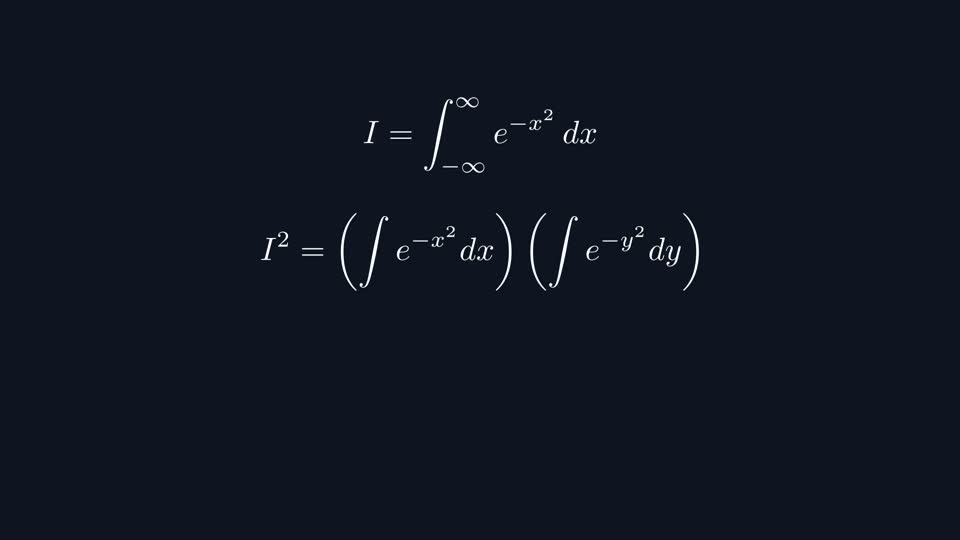
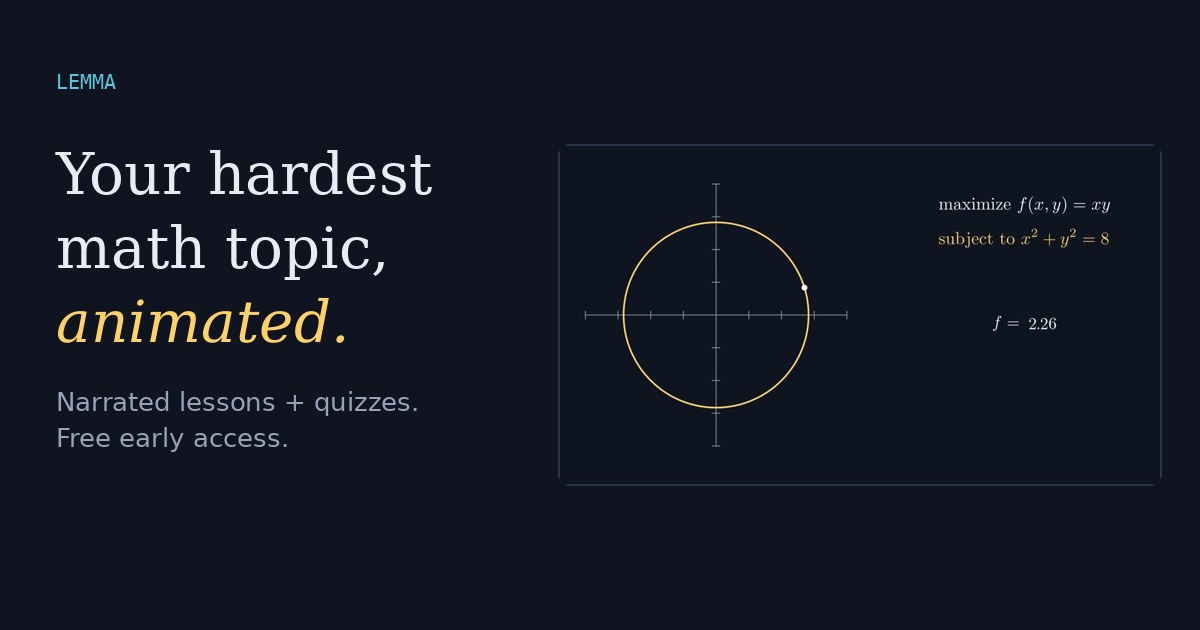
Signup-focused redesign: course picker, referral tiers, A/B headline, offline-safe signup, share image

diff --git a/index.html b/index.html
@@ -2,6 +2,11 @@
 <html lang="en">
 <head>
 <meta charset="utf-8">
+<script>
+(function(){var q=new URLSearchParams(location.search),v=q.get("v"),V=["a","b"];
+try{if(V.indexOf(v)<0)v=localStorage.getItem("lemma-v");if(V.indexOf(v)<0){v=V[Math.random()*V.length|0]}localStorage.setItem("lemma-v",v)}catch(e){if(V.indexOf(v)<0)v="a"}
+window.LEMMA_V=v;document.documentElement.dataset.v=v})();
+</script>
 <meta name="viewport" content="width=device-width,initial-scale=1,viewport-fit=cover">
 <title>Lemma: see the math move</title>
 <meta name="description" content="Narrated, animated math lessons for any topic in your course, with a quiz after every lesson. Watch three free sample lessons and join the early-access list.">
@@ -161,7 +166,26 @@ footer{margin-top:64px;padding-top:20px;border-top:1px solid var(--line);color:v
 .faq details{background:var(--panel);border:1px solid var(--line);border-radius:10px;padding:14px 16px;margin-bottom:8px}
 .faq summary{cursor:pointer;font-weight:500}
 .faq p{color:var(--muted);margin:8px 0 0;font-size:15px}
-@media (max-width:480px){.hero-form{flex-direction:column}.sticky span{display:none}}
+
+.course-pick{display:flex;flex-wrap:wrap;gap:6px;margin:0 0 10px}
+.course-pick button{all:unset;cursor:pointer;font:13px var(--body);border:1px solid var(--line);border-radius:99px;padding:6px 12px;color:var(--ink);background:var(--panel)}
+.course-pick button[aria-pressed="true"]{border-color:var(--yellow);color:var(--bg);background:var(--yellow)}
+.pick-label{font:500 13px var(--body);color:var(--muted);margin:0 0 8px}
+.tiers{list-style:none;padding:0;margin:12px 0 14px;display:grid;gap:6px;font-size:14px}
+.tiers li{display:flex;gap:10px;align-items:center;color:var(--muted)}
+.tiers li b{font:500 12px var(--mono);min-width:64px;color:var(--ink)}
+.tiers li.got{color:var(--green)} .tiers li.got b{color:var(--green)}
+.bar{height:6px;background:var(--line);border-radius:99px;overflow:hidden;margin-top:10px}
+.bar i{display:block;height:100%;background:var(--yellow)}
+.refnote{background:var(--raised);border:1px solid var(--green);color:var(--green);border-radius:8px;padding:8px 12px;font-size:14px;margin:0 0 12px}
+.refnote[hidden]{display:none}
+.sticky .hero-form{margin:0;flex:1;max-width:520px}
+.sticky .hero-form input{padding:10px 12px}
+.sticky .err-msg,.sticky .pick{display:none}
+.sticky .done{display:none}
+[data-v="a"] .vb,[data-v="b"] .va{display:none}
+@media (max-width:860px){.hero .vwrap{order:-1}.hero{padding-top:8px;gap:20px}}
+@media (max-width:480px){.hero-form{flex-direction:column}.sticky .hero-form{flex-direction:row}.sticky span{display:none}.lede{font-size:16px}}
 </style>
 </head>
 <body>
@@ -174,20 +198,17 @@ footer{margin-top:64px;padding-top:20px;border-top:1px solid var(--line);color:v
   <section class="hero" id="top">
     <div>
       <div class="eyebrow">Animated math lessons · free early access</div>
-      <h1>See the math <em>move</em>, then prove you get it.</h1>
-      <p class="lede">Type any topic from your course and get a narrated, animated lesson that builds the intuition step by step, then quizzes you on it. Upload old exams and Lemma lines up what you missed.</p>
+      <h1 class="va">Your hardest math topic, <em>animated</em> in minutes.</h1>
+      <h1 class="vb" id="h1b">Finally <em>see</em> why the formula works.</h1>
+      <p class="lede">Pick a topic and watch it built step by step with narration and animation, then check yourself with a 3-question quiz. Watch a free sample, then save a spot for your course.</p>
+      <div class="refnote" id="refnote" hidden>A friend saved you a spot. Join and you both move up the list.</div>
       <div class="proof" id="proof" hidden></div>
       <div class="signup-slot" data-slot="hero"></div>
       <p class="micro"><b>Free to join.</b> No card. One email when your course is ready.</p>
-      <div class="chips">
-        <span class="chip"><b>3</b> free sample lessons below</span>
-        <span class="chip"><b>8–15 min</b> lessons</span>
-        <span class="chip"><b>quiz</b> after every lesson</span>
-      </div>
     </div>
     <div class="vwrap">
-      <video id="heroVid" src="l3.mp4" poster="l3.jpg" controls preload="metadata" playsinline></video>
-      <div class="endcard" id="heroEnd" hidden><div><b>Want this for your course?</b><a class="submit" href="#join" data-cta="hero-end">Get early access</a></div></div>
+      <video id="heroVid" src="l2.mp4" poster="l2.jpg" controls preload="metadata" playsinline></video>
+      <div class="endcard" id="heroEnd" hidden><div><b>Want this for your course?</b><a class="submit" href="#join" data-cta="hero-end">Save my spot</a></div></div>
     </div>
   </section>
 
@@ -197,7 +218,7 @@ footer{margin-top:64px;padding-top:20px;border-top:1px solid var(--line);color:v
   <div class="player">
     <div>
       <div class="vwrap">
-        <video id="vid" controls preload="metadata" playsinline></video>
+        <video id="vid" controls preload="none" playsinline></video>
         <div class="endcard" id="vidEnd" hidden><div><b>Want this for your course?</b><a class="submit" href="#join" data-cta="lesson-end">Get early access</a></div></div>
       </div>
       <div class="lesson-title" id="ltitle"></div>
@@ -216,37 +237,39 @@ footer{margin-top:64px;padding-top:20px;border-top:1px solid var(--line);color:v
     <li><b>Upload old exams</b><span>Lemma finds the topics you missed and lines up lessons and practice for them.</span></li>
   </ol>
 
-  <h2>Planned pricing</h2>
-  <p class="sub">Free while in early access. This is what we expect to launch with.</p>
-  <div class="plans">
-    <div class="plan"><div class="n">Free</div><div class="p">$0</div><ul><li>Browse the lesson library</li><li>Basic quizzes</li></ul></div>
-    <div class="plan feat"><div class="n">Pro</div><div class="p">$19.99<small> / month</small></div><div style="color:var(--muted);font-size:14px">or $119.99 / year</div><ul><li>Upload old exams and homework</li><li>Personal study path</li><li>Custom lessons on request</li><li>Unlimited quizzes and exam mode</li></ul></div>
-    <div class="plan"><div class="n">Finals week</div><div class="p">$9.99<small> / week</small></div><ul><li>Everything in Pro, for cram week</li></ul></div>
-  </div>
-  <div class="founding"><b>Early-access members</b> get first access and a founding price of <b>$49 for the first year</b>.</div>
-
-  <h2 id="join">Get early access</h2>
-  <p class="sub">Join with your email. We build courses in the order people ask for them, and you move up the list for every friend who joins.</p>
+  <h2 id="join">Save your spot</h2>
+  <p class="sub">Pick your course and drop your email. We build courses in the order people ask for them, and every friend who joins moves you up.</p>
   <div class="signup-slot" data-slot="join"></div>
 
   <h2>Questions</h2>
   <div class="faq">
     <details><summary>Which courses will you cover?</summary><p>We're starting with math-heavy college courses: calculus, linear algebra, differential equations, probability and physics. Tell us your course after you join and we'll prioritize the most-requested ones.</p></details>
-    <details><summary>Are the lessons accurate?</summary><p>Every lesson is generated from a script that's checked for correctness, and the math in each worked example is verified. If you spot a mistake, tell us and we fix it.</p></details>
-    <details><summary>How long are lessons?</summary><p>The samples are about 4 minutes. Full lessons run 8 to 15 minutes with chapters, so you can skip to the part you need.</p></details>
+    <details><summary>Are the lessons accurate?</summary><p>Every lesson script is checked for correctness, and we work each example by hand before it ships. If you spot a mistake, tell us and we fix it.</p></details>
+    <details><summary>How long are lessons?</summary><p>The samples run about 3 minutes. Bigger topics are split into chapters, so you can jump straight to the part you need.</p></details>
+    <details><summary>How much will it cost?</summary><p>Free during early access. At launch we expect a free tier, Pro at $19.99/month or $119.99/year, and a $9.99 finals-week pass. Early members can lock in a founding price of $49 for the first year.</p></details>
     <details><summary>What happens when I join?</summary><p>You get one email when lessons for your course are ready. No spam, and you can ask to be removed anytime.</p></details>
   </div>
 
   <footer>Lemma is an independent student project. Lessons are AI-assisted and reviewed for correctness.</footer>
 </div>
 
-<div class="sticky" id="sticky"><span>Animated lessons for your course. Free early access.</span><a class="submit" href="#join" data-cta="sticky">Get early access</a></div>
+<div class="sticky" id="sticky"><span>Free early access</span><div class="signup-slot" data-slot="sticky" style="flex:1;max-width:520px"></div></div>
 
 <template id="tpl-form">
+  <div class="pick"><div class="pick-label">Which course is this for?</div>
+  <div class="course-pick" role="group" aria-label="Course">
+    <button type="button" aria-pressed="false" data-c="calc12">Calc I / II</button>
+    <button type="button" aria-pressed="false" data-c="calc3">Calc III</button>
+    <button type="button" aria-pressed="false" data-c="linalg">Linear algebra</button>
+    <button type="button" aria-pressed="false" data-c="diffeq">Diff eq</button>
+    <button type="button" aria-pressed="false" data-c="prob">Probability / stats</button>
+    <button type="button" aria-pressed="false" data-c="physics">Physics</button>
+    <button type="button" aria-pressed="false" data-c="other">Other</button>
+  </div></div>
   <form class="hero-form" novalidate>
     <input type="email" name="email" required placeholder="you@school.edu" autocomplete="email" aria-label="Email address">
     <input class="hp" type="text" name="website" tabindex="-1" autocomplete="off" aria-hidden="true">
-    <button class="submit" type="submit">Get early access</button>
+    <button class="submit" type="submit">Save my spot</button>
   </form>
   <div class="err-msg" role="status"></div>
 </template>
@@ -309,32 +332,51 @@ select(cur);
 /* ---- signup ---- */
 const API="https://chimmychonga.tail70e09f.ts.net/lemma/api";
 const PAGE="https://suryacks.github.io/lemma/";
+const COURSES={calc12:"Calc I / II",calc3:"Calc III",linalg:"Linear algebra",diffeq:"Diff eq",prob:"Probability / stats",physics:"Physics",other:"your course"};
+const TOPICS={gradient:[0,"The gradient"],lagrange:[1,"Lagrange multipliers"],gaussian:[2,"The Gaussian integral"]};
 const qs=new URLSearchParams(location.search);
-const REF=(qs.get("ref")||"").slice(0,12);
-const SRC=[qs.get("utm_source"),qs.get("utm_campaign"),qs.get("src")].filter(Boolean).join("/")||(document.referrer?new URL(document.referrer).hostname:"direct");
-let me=null;try{me=JSON.parse(localStorage.getItem("lemma-me")||"null")}catch(e){}
-const save=()=>{try{localStorage.setItem("lemma-me",JSON.stringify(me))}catch(e){}};
-const post=(p,b)=>fetch(API+p,{method:"POST",headers:{"Content-Type":"application/json"},body:JSON.stringify(b)});
+const ls={get(k){try{return localStorage.getItem(k)}catch(e){return null}},set(k,v){try{localStorage.setItem(k,v)}catch(e){}}};
+/* keep a referral code even if the friend comes back later without the link */
+if(qs.get("ref"))ls.set("lemma-ref",qs.get("ref").slice(0,12));
+const REF=ls.get("lemma-ref")||"";
+const SRC=[qs.get("utm_source"),qs.get("utm_campaign"),qs.get("utm_content"),qs.get("src")].filter(Boolean).join("/")||(document.referrer?new URL(document.referrer).hostname:"direct");
+let me=null;try{me=JSON.parse(ls.get("lemma-me")||"null")}catch(e){}
+let course="";
+const save=()=>ls.set("lemma-me",JSON.stringify(me));
+/* text/plain skips the CORS preflight, one less round trip on slow phone connections */
+const post=(p,b)=>fetch(API+p,{method:"POST",headers:{"Content-Type":"text/plain"},body:JSON.stringify(b)});
+
+/* ad-matched topic: ?l=lagrange picks the hero video, the lesson tab and variant B's headline */
+const topic=TOPICS[qs.get("l")];
+if(topic){
+  const id=LESSONS[topic[0]].id;$("heroVid").src=id+".mp4";$("heroVid").poster=id+".jpg";select(topic[0]);
+  $("h1b").replaceChildren(h("em",{},topic[1]),", finally clear.");
+}
+if(REF&&!me)$("refnote").hidden=false;
 
 function shareLink(){return PAGE+"?ref="+encodeURIComponent(me.code)}
+const TIERS=[[1,"Lock the $49 founding year"],[3,"First batch for your course"],[10,"First year free"]];
 function doneCard(){
   const link=h("input",{readonly:true,value:shareLink(),"aria-label":"Your invite link",onclick:e=>e.target.select()});
   const copy=h("button",{class:"btn2",type:"button",onclick:async()=>{try{await navigator.clipboard.writeText(shareLink());copy.textContent="Copied"}catch(e){link.select()}}},"Copy link");
-  const text="I'm getting early access to Lemma: animated, narrated lessons for math courses. Watch a free sample:";
-  const kids=[h("h3",{},"You're on the list."),
+  const cname=COURSES[me.course]||"your course";
+  const text=`Found animated lessons for ${cname==="your course"?"math":cname} that actually make it click. Free early access:`;
+  const n=me.referrals||0,next=TIERS.find(t=>n<t[0]);
+  const shareBtn=navigator.share?h("button",{class:"submit",type:"button",onclick:()=>navigator.share({title:"Lemma",text,url:shareLink()}).catch(()=>{})},"Send to your study group"):
+    h("a",{class:"submit",href:"sms:?&body="+encodeURIComponent(text+" "+shareLink())},"Text your study group");
+  return h("div",{class:"done"},
+    h("h3",{},"You're in."),
     h("div",{class:"pos"},"#"+me.position),
-    h("p",{},me.referrals?`${me.referrals} friend${me.referrals>1?"s":""} joined from your link. Each one moves you up 5 spots.`:"Each friend who joins with your link moves you up 5 spots. Send it to your study group."),
-    h("div",{class:"share"},link,copy,
-      navigator.share?h("button",{class:"btn2",type:"button",onclick:()=>navigator.share({title:"Lemma",text,url:shareLink()}).catch(()=>{})},"Share"):null,
-      h("a",{class:"btn2",href:"sms:?&body="+encodeURIComponent(text+" "+shareLink())},"Text"),
-      h("a",{class:"btn2",target:"_blank",rel:"noopener",href:"https://twitter.com/intent/tweet?text="+encodeURIComponent(text)+"&url="+encodeURIComponent(shareLink())},"Post"))];
-  return h("div",{class:"done"},...kids);
+    h("p",{style:"margin-top:0"},`in line for ${cname}. Each friend who joins with your link moves you up 5 spots.`),
+    h("ul",{class:"tiers"},...TIERS.map(([k,label])=>h("li",{class:n>=k?"got":""},h("b",{},`${k} friend${k>1?"s":""}`),(n>=k?"✓ ":"")+label))),
+    next?h("div",{style:"font-size:13px;color:var(--muted)"},`${n} of ${next[0]} friends joined`,h("div",{class:"bar"},h("i",{style:`width:${Math.min(100,n/next[0]*100)}%`}))):null,
+    h("div",{class:"share",style:"margin-top:14px"},shareBtn,link,copy));
 }
 function profileForm(){
   const f=h("form",{class:"interest",novalidate:true});
   f.innerHTML=`<div class="field full" style="font:500 16px var(--body)">Optional: help us build your course first</div>
     <div class="field"><label for="p-school">School</label><input id="p-school" type="text" placeholder="Your college"></div>
-    <div class="field"><label for="p-courses">Which courses?</label><input id="p-courses" type="text" placeholder="e.g. Calc III, Linear Algebra"></div>
+    <div class="field"><label for="p-courses">Exact course name or number</label><input id="p-courses" type="text" placeholder="e.g. Math 21C, 18.06"></div>
     <fieldset class="field full"><legend>Would you pay for this?</legend><div class="radios">
       <label><input type="radio" name="pay" value="founding"> Yes, $49 founding year</label>
       <label><input type="radio" name="pay" value="pro"> Yes, $19.99/mo</label>
@@ -353,29 +395,46 @@ function profileForm(){
   f.style.marginTop="16px";f.style.maxWidth="760px";
   return f;
 }
+function syncPicks(){document.querySelectorAll(".course-pick button").forEach(b=>b.setAttribute("aria-pressed",String(b.dataset.c===course)))}
+async function join(email,slot){
+  const body={email,course,ref:REF,src:SRC+"@"+slot,v:window.LEMMA_V||""};
+  const r=await post("/signup",body);const j=await r.json();if(!r.ok)throw j;
+  me=j;save();ls.set("lemma-pending","");
+}
 function renderSlots(){
   document.querySelectorAll(".signup-slot").forEach(slot=>{
     if(me){
-      slot.replaceChildren(doneCard());
+      slot.replaceChildren(slot.dataset.slot==="sticky"?"":doneCard());
       if(slot.dataset.slot==="join"&&!me.profiled)slot.append(profileForm());
       return;
     }
     slot.replaceChildren($("tpl-form").content.cloneNode(true));
+    slot.querySelectorAll(".course-pick button").forEach(b=>b.addEventListener("click",()=>{course=course===b.dataset.c?"":b.dataset.c;syncPicks()}));
+    syncPicks();
     const f=slot.querySelector("form"),err=slot.querySelector(".err-msg"),btn=f.querySelector("button");
     f.addEventListener("submit",async e=>{
       e.preventDefault();const email=f.email.value.trim();
+      if(f.website.value)return;
       if(!/^[^@\s]+@[^@\s]+\.[^@\s]{2,}$/.test(email)){err.textContent="Enter a valid email address.";f.email.focus();return}
-      btn.disabled=true;btn.textContent="Joining…";err.textContent="";
-      try{const r=await post("/signup",{email,ref:REF,src:SRC+"@"+slot.dataset.slot,website:f.website.value});
-        const j=await r.json();if(!r.ok)throw j;
-        me=j;save();renderSlots();document.body.classList.add("joined");$("sticky").classList.remove("show");
-        if(slot.dataset.slot==="hero")$("join").scrollIntoView({behavior:"smooth"});
-      }catch(x){err.textContent=x&&x.error==="bad_email"?"That email doesn't look right.":x&&x.error==="slow_down"?"Too many tries. Wait a few minutes.":"Couldn't reach the server. Try again in a moment.";btn.disabled=false;btn.textContent="Get early access"}
+      btn.disabled=true;btn.textContent="Saving…";err.textContent="";
+      try{await join(email,slot.dataset.slot);renderSlots();upd();
+        /* keep the confirmation where they are; from the sticky bar, bring the card into view */
+        if(slot.dataset.slot==="sticky")$("join").scrollIntoView({behavior:"smooth"});
+      }catch(x){
+        if(x&&x.error==="bad_email"){err.textContent="That email doesn't look right.";btn.disabled=false;btn.textContent="Save my spot";return}
+        if(x&&x.error==="slow_down"){err.textContent="Too many tries. Wait a few minutes.";btn.disabled=false;btn.textContent="Save my spot";return}
+        /* server unreachable: keep the signup and retry on the next visit */
+        ls.set("lemma-pending",JSON.stringify({email,course,slot:slot.dataset.slot}));
+        slot.replaceChildren(h("div",{class:"done"},h("h3",{},"Got it."),h("p",{},"We saved your email and will confirm your spot shortly. Keep this page bookmarked to see your place in line.")));
+      }
     });
   });
 }
 renderSlots();
-if(me&&me.code)fetch(API+"/me?code="+encodeURIComponent(me.code)).then(r=>r.ok?r.json():null).then(j=>{if(j){me={...me,...j};save();renderSlots()}}).catch(()=>{});
+(async()=>{
+  try{const p=JSON.parse(ls.get("lemma-pending")||"null");if(p&&!me){course=p.course||"";await join(p.email,p.slot+"-retry");renderSlots();upd()}}catch(e){}
+  if(me&&me.code)fetch(API+"/me?code="+encodeURIComponent(me.code)).then(r=>r.ok?r.json():null).then(j=>{if(j){me={...me,...j};save();renderSlots()}}).catch(()=>{});
+})();
 
 /* CTAs focus the nearest email box */
 document.addEventListener("click",e=>{const a=e.target.closest("a[data-cta]");if(!a)return;e.preventDefault();
@@ -384,13 +443,13 @@ document.addEventListener("click",e=>{const a=e.target.closest("a[data-cta]");if
 [["heroVid","heroEnd"],["vid","vidEnd"]].forEach(([v,c])=>{const V=$(v);V.addEventListener("ended",()=>{if(!me)$(c).hidden=false});V.addEventListener("play",()=>$(c).hidden=true)});
 /* sticky bar after the hero, hidden near the form or once joined */
 const stick=$("sticky");let pastHero=false,atJoin=false;
-const upd=()=>stick.classList.toggle("show",pastHero&&!atJoin&&!me);
+function upd(){stick.classList.toggle("show",pastHero&&!atJoin&&!me)}
 new IntersectionObserver(([e])=>{pastHero=!e.isIntersecting&&e.boundingClientRect.top<0;upd()}).observe($("top"));
 new IntersectionObserver(([e])=>{atJoin=e.isIntersecting;upd()},{rootMargin:"0px 0px -20% 0px"}).observe(document.querySelector('[data-slot="join"]'));
 /* social proof once the list is big enough to be persuasive */
 fetch(API+"/stats").then(r=>r.json()).then(j=>{if(j.signups>=25){$("proof").textContent=`${j.signups.toLocaleString()} students on the early-access list`;$("proof").hidden=false}}).catch(()=>{});
-/* anonymous page-view count, for conversion rate */
-try{if(!sessionStorage.getItem("lemma-v")){sessionStorage.setItem("lemma-v","1");navigator.sendBeacon?navigator.sendBeacon(API+"/view",new Blob(["{}"],{type:"text/plain"})):post("/view",{})}}catch(e){}
+/* anonymous page-view count per variant, for conversion rate */
+try{if(!sessionStorage.getItem("lemma-viewed")){sessionStorage.setItem("lemma-viewed","1");const b=JSON.stringify({v:window.LEMMA_V||""});navigator.sendBeacon?navigator.sendBeacon(API+"/view",new Blob([b],{type:"text/plain"})):post("/view",JSON.parse(b))}}catch(e){}
 </script>
 </body>
 </html>
